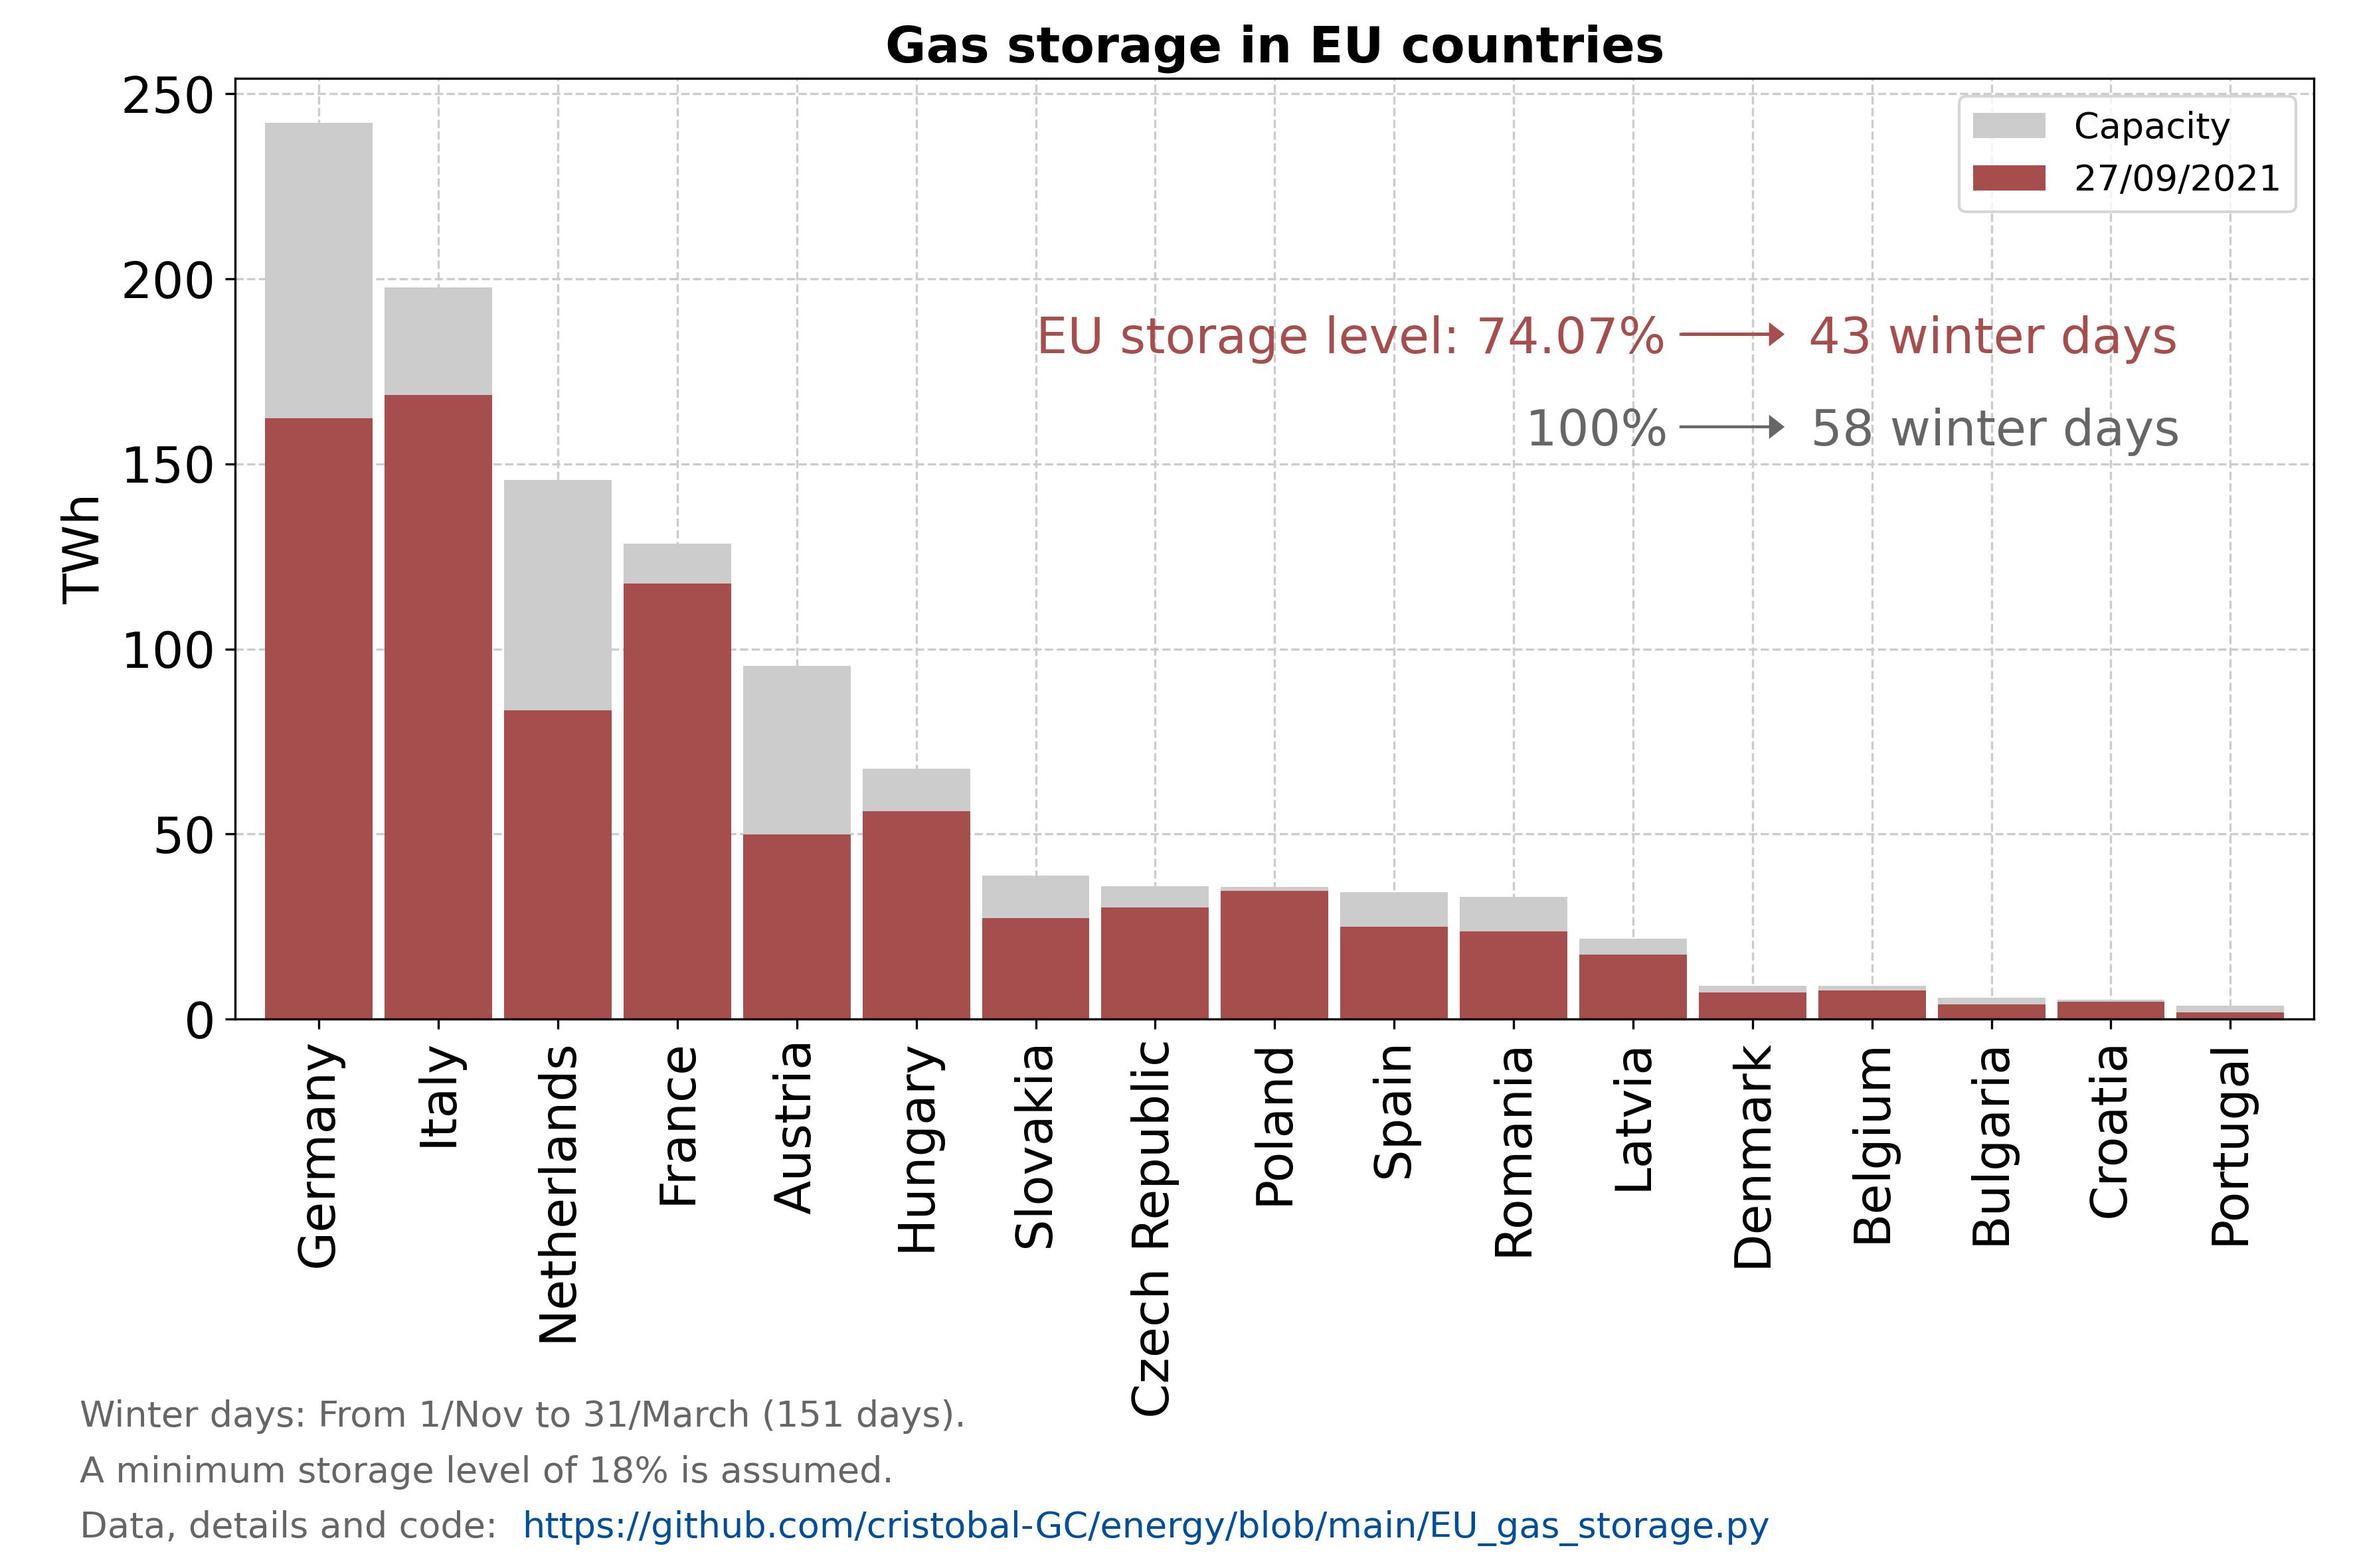
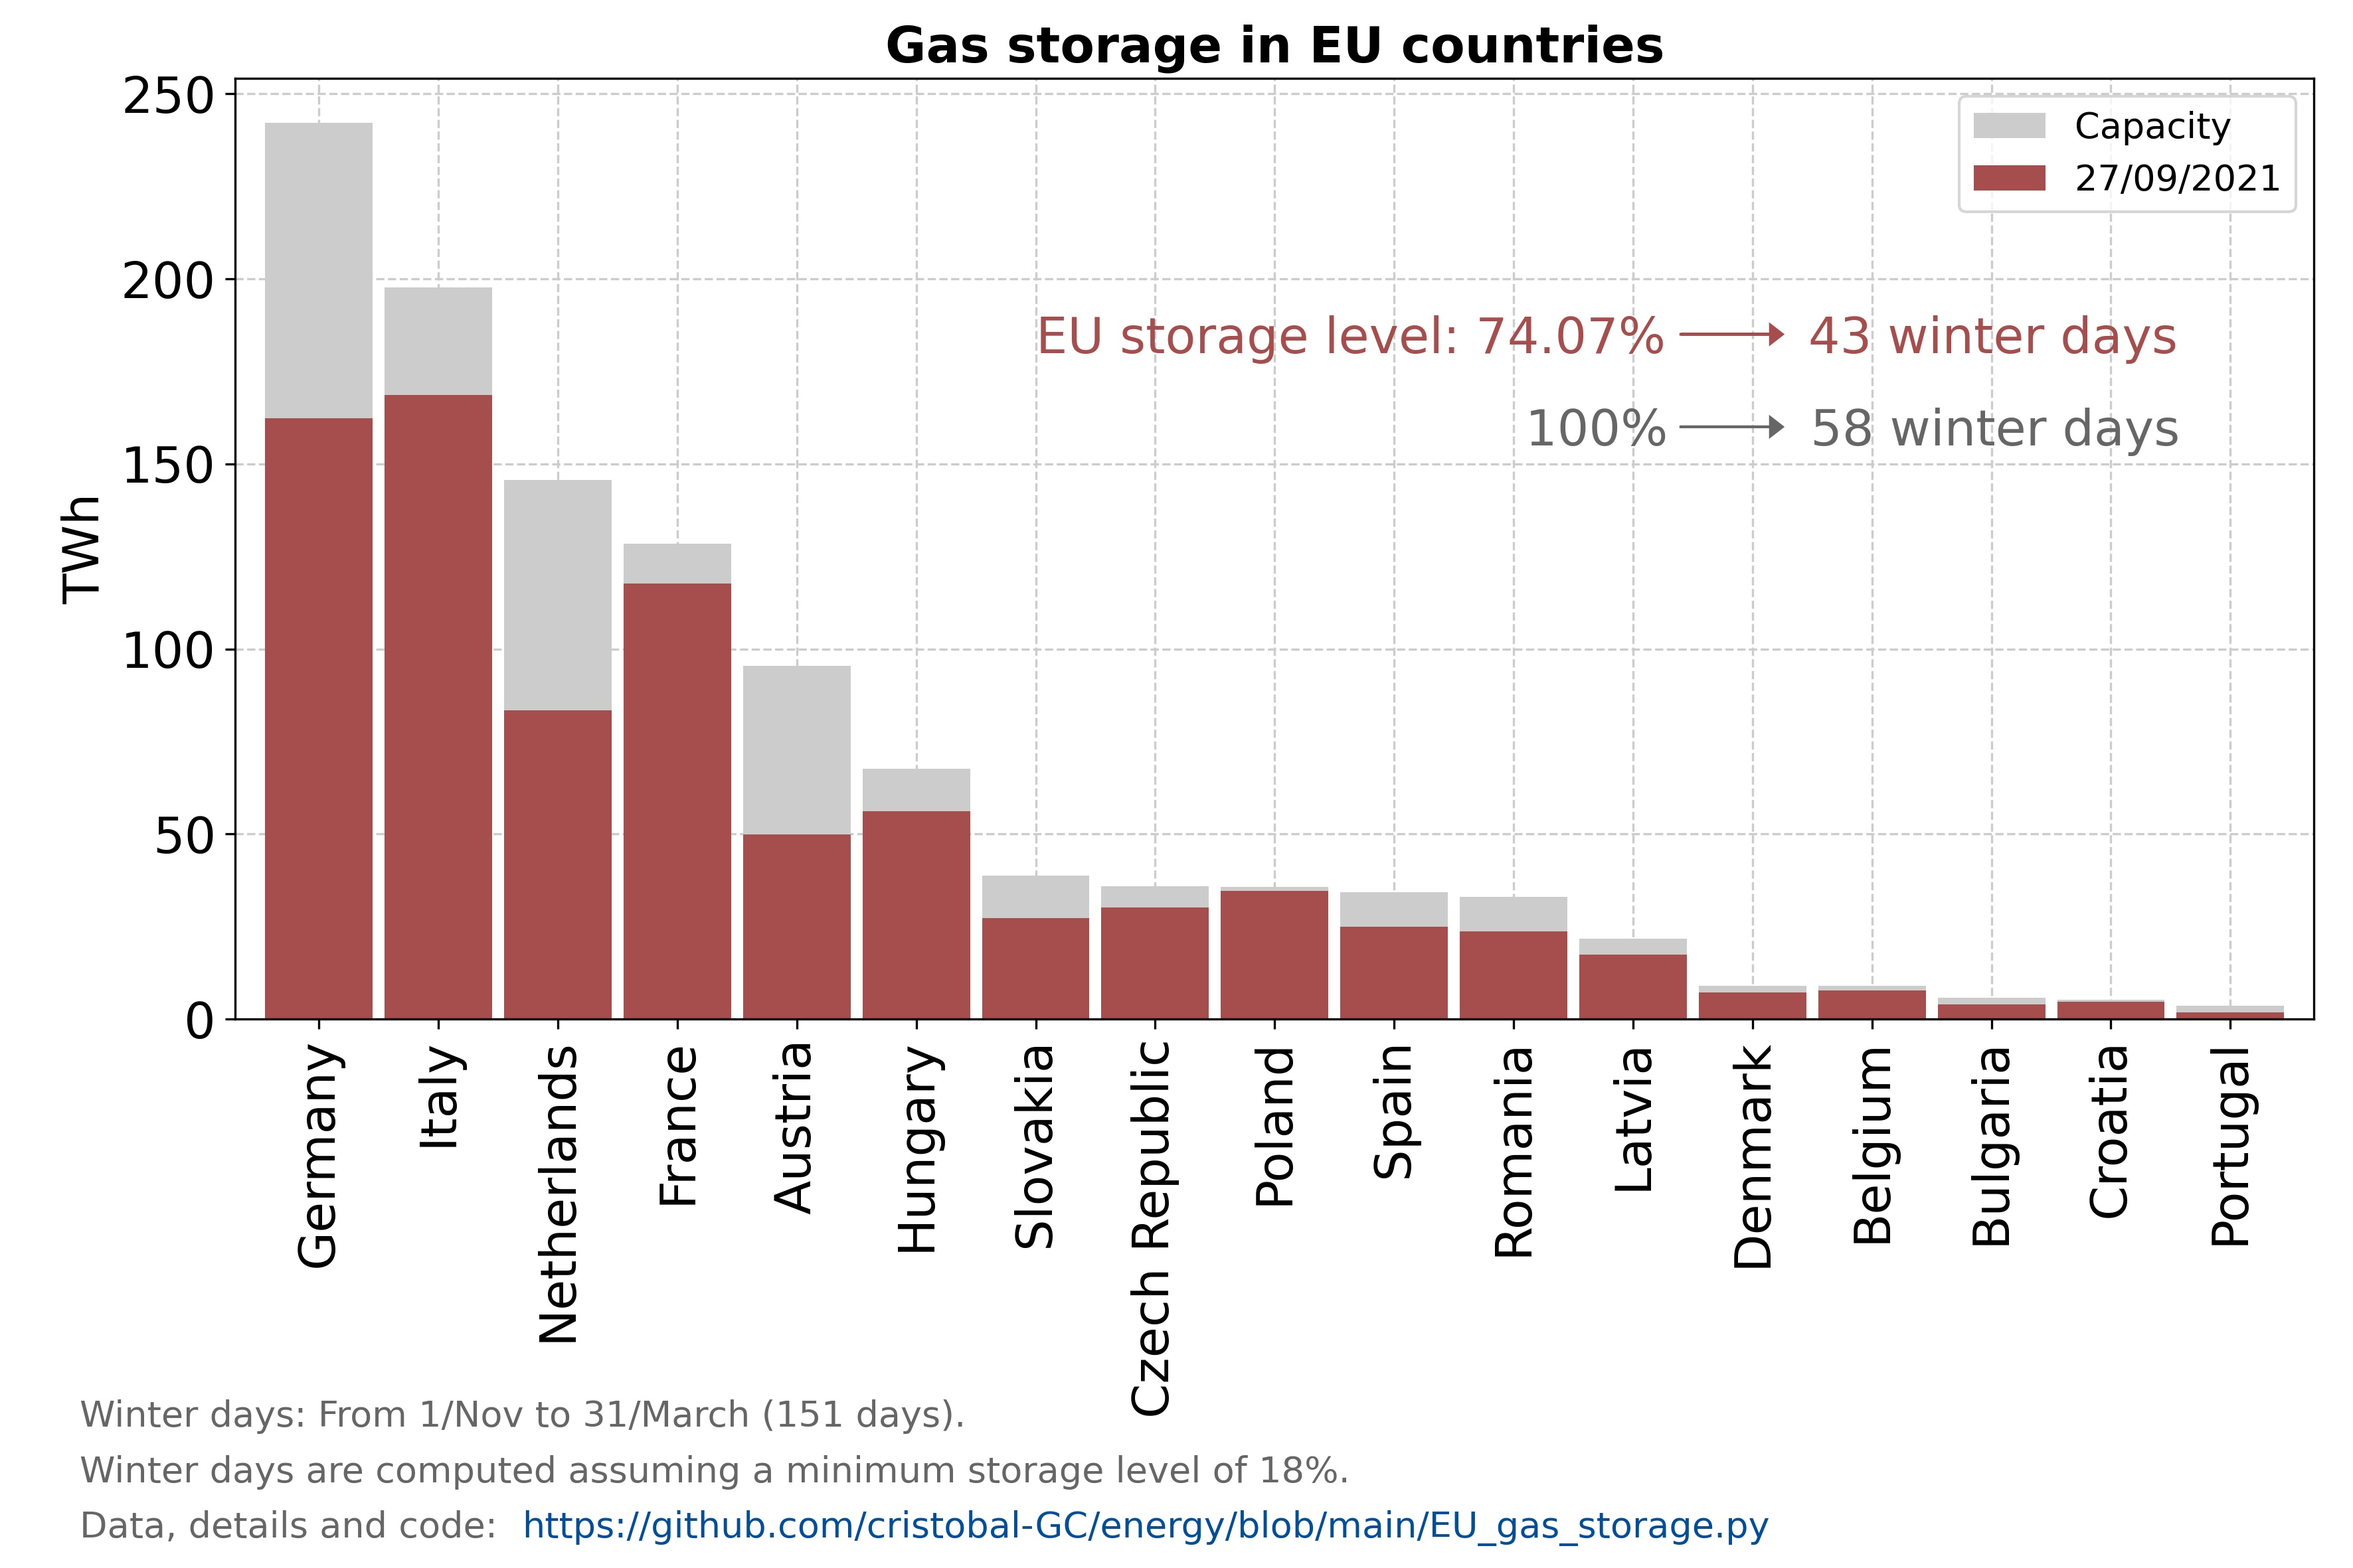
small changes

Changed region(s): [[0.031, 0.9272, 0.5588, 0.9581]]

diff --git a/EU_gas_storage.py b/EU_gas_storage.py
@@ -29,7 +29,7 @@ import matplotlib.pyplot as plt
 ### Date 
 day	= '27'
 month	= '09'
-year	= '2021'
+year	= '2022'
 
 
 ### Winter days from 1st/Nov to 31/Mar
@@ -207,7 +207,7 @@ new_line = 15
 ax.text(-2.,-110,f'Winter days: From 1/Nov to 31/March (151 days).',
 			fontsize=tamano_notes, color=color_notes)
 
-ax.text(-2.,-110-1*new_line,f'A minimum storage level of {round(100*min_storage_level)}% is assumed.',
+ax.text(-2.,-110-1*new_line,f'Covered winter days are computed assuming a minimum storage level of {round(100*min_storage_level)}%.',
 			fontsize=tamano_notes, color=color_notes)
 
 ax.text(-2.,-110-2*new_line,'Data, details and code:',
